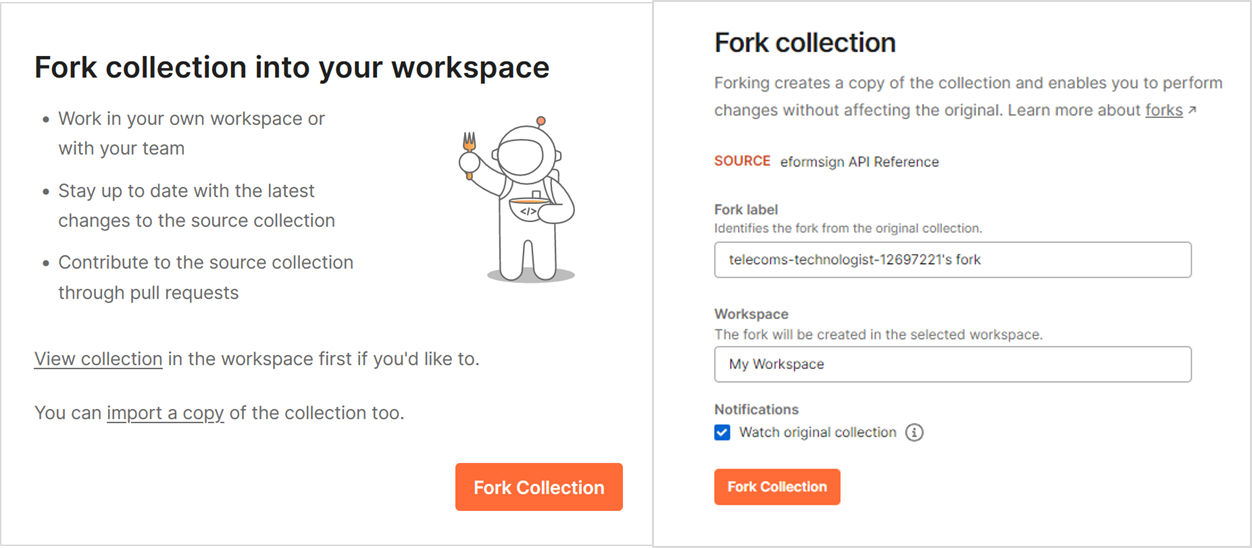
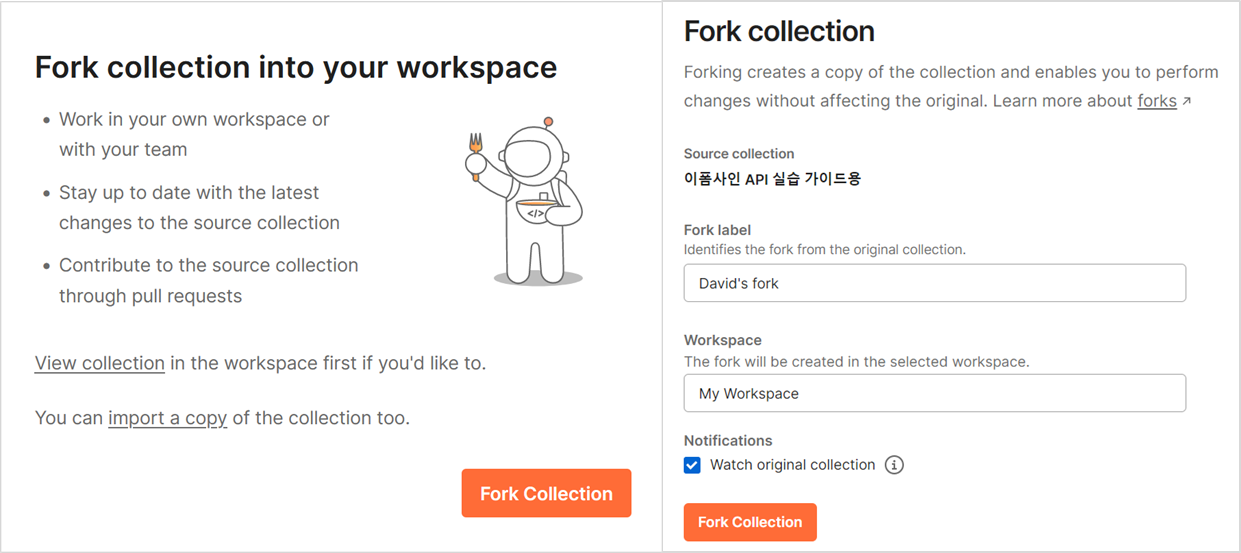
이미지 추가 수정

diff --git a/docs/help/eformsign_webhook.html b/docs/help/eformsign_webhook.html
@@ -120,18 +120,14 @@
 <section id="addwebhook">
 <span id="id2"></span><h3>Webhook 추가하기<a class="headerlink" href="#addwebhook" title="Link to this heading"></a></h3>
 <ol class="arabic simple">
-<li><p>eformsign에 대표 관리자로 로그인 후, 메뉴에서 <strong>[커넥트] &gt; [API / Webhook]</strong> 페이지로 이동합니다.</p></li>
+<li><p>메뉴에서 <strong>[커넥트] &gt; [API / Webhook]</strong> 클릭하여 이동한 후, <strong>[Webhook 관리]</strong> 탭을 선택하고 <strong>Webhook 추가</strong> 버튼을 클릭합니다.</p></li>
 </ol>
 <a class="reference internal image-reference" href="../_images/apikey1.PNG"><img alt="커넥트 &gt; API/Webhook 메뉴 위치" src="../_images/apikey1.PNG" style="width: 700px;" /></a>
 <ol class="arabic simple" start="2">
-<li><p><strong>[Webhook 관리]</strong> 탭을 선택하고 <strong>Webhook 추가</strong> 버튼을 클릭합니다.</p></li>
-</ol>
-<a class="reference internal image-reference" href="../_images/webhook2.PNG"><img alt="Webhook 추가 버튼" src="../_images/webhook2.PNG" style="width: 700px;" /></a>
-<ol class="arabic simple" start="3">
-<li><p><strong>Webhook 추가</strong> 팝업창에 이름, Webhook을 수신할 URL(Endpoint URL), 활성 상태를 선택합니다.</p></li>
+<li><p>Webhook 추가 팝업창에 이름, Webhook을 수신할 URL(Endpoint URL), 활성 상태를 선택합니다.</p></li>
 </ol>
 <a class="reference internal image-reference" href="../_images/Webhook_key1.png"><img alt="Webhook 키 생성 팝업창" src="../_images/Webhook_key1.png" style="width: 500px;" /></a>
-<ol class="arabic simple" start="4">
+<ol class="arabic simple" start="3">
 <li><p><strong>적용 대상</strong>을 선택합니다. 적용 대상은 <strong>모든 문서, 템플릿이 없이 만든 문서, 템플릿으로 만든 문서</strong> 중에 선택할 수 있습니다.</p></li>
 </ol>
 <a class="reference internal image-reference" href="../_images/Webhook_key2.png"><img alt="Webhook 키 생성 팝업창 2" src="../_images/Webhook_key2.png" style="width: 500px;" /></a>
@@ -156,11 +152,11 @@
 <div><a class="reference internal image-reference" href="../_images/Webhook_add_popup2.png"><img alt="Webhook 키 생성 팝업창 5" src="../_images/Webhook_add_popup2.png" style="width: 500px;" /></a>
 </div></blockquote>
 </div>
-<ol class="arabic simple" start="5">
+<ol class="arabic simple" start="4">
 <li><p><strong>검증 유형</strong>을 선택합니다. 검증 유형은 <strong>검증 없음, Bearer token, Basic authentication, eformsign signature</strong> 중에서 선택할 수 있습니다. 각 검증 유형에 대한 설명은 <a class="reference external" href="#webhookauth">Webhook 검증하기</a>을 확인해 주세요.</p></li>
 </ol>
 <a class="reference internal image-reference" href="../_images/Webhook_add_popup3.png"><img alt="Webhook 키 생성 팝업창 6" src="../_images/Webhook_add_popup3.png" style="width: 500px;" /></a>
-<ol class="arabic simple" start="6">
+<ol class="arabic simple" start="5">
 <li><p><strong>등록</strong> 버튼을 클릭하면 Webhook이 추가됩니다. <strong>Webhook 관리</strong> 목록에서 추가한 Webhook을 확인할 수 있습니다.</p></li>
 </ol>
 <a class="reference internal image-reference" href="../_images/Webhook_add.png"><img alt="Webhook 등록 완료" src="../_images/Webhook_add.png" style="width: 700px;" /></a>

diff --git a/docs/help/eformsign_embedding_v2.html b/docs/help/eformsign_embedding_v2.html
@@ -153,7 +153,7 @@
 <li><p>템플릿 수정</p></li>
 <li><p>템플릿 복제</p></li>
 </ul>
-<p>위 기능을 임베딩하기 위한 객체는 현재 EformSignDocument와 EformSignTemplate 두 종류를 제공하고 있습니다. 각 객체가 담당하고 있는 기능을 확인 후 설치해 주세요.</p>
+<p>위의 기능을 임베딩하기 위한 객체는 현재 EformSignDocument와 EformSignTemplate 두 종류를 제공하고 있습니다. 각 객체가 담당하고 있는 기능을 확인 후 설치해 주세요.</p>
 <section id="id3">
 <h4>eformsign 임베딩용 객체<a class="headerlink" href="#id3" title="Link to this heading"></a></h4>
 <table class="docutils align-default">
@@ -273,14 +273,10 @@ jQuery의 경우, 이미 다른 방식으로 웹페이지에 추가되어 있다
 <h4>템플릿 ID 확인 방법<a class="headerlink" href="#id8" title="Link to this heading"></a></h4>
 <p>템플릿 관리 메뉴로 이동하여 사용하려는 템플릿의 설정 아이콘을 클릭하면 해당 템플릿의 URL에서 form_id를 확인할 수 있습니다.</p>
 <ol class="arabic simple">
-<li><p>eformsign 사이드바 메뉴에서 <strong>템플릿 관리</strong>를 클릭합니다.</p></li>
+<li><p>사이드바 메뉴에서 <strong>템플릿 관리</strong>를 클릭한 후 <strong>템플릿 관리</strong> 화면에서 해당 템플릿의 <strong>설정</strong> 버튼을 클릭합니다.</p></li>
 </ol>
 <a class="reference internal image-reference" href="../_images/sidemenu_managetemplate.png"><img alt="eformsign 메뉴-템플릿 관리" src="../_images/sidemenu_managetemplate.png" style="width: 700px;" /></a>
 <ol class="arabic simple" start="2">
-<li><p>eformsign 템플릿 관리 화면에서 해당 템플릿의 <strong>설정</strong> 버튼을 클릭합니다.</p></li>
-</ol>
-<a class="reference internal image-reference" href="../_images/managetemplate.png"><img alt="eformsign 템플릿 관리 화면" src="../_images/managetemplate.png" style="width: 700px;" /></a>
-<ol class="arabic simple" start="3">
 <li><p>템플릿의 URL에서 <strong>템플릿 ID(=form_id)</strong>를 확인합니다.</p></li>
 </ol>
 <a class="reference internal image-reference" href="../_images/templateURL_templateID.png"><img alt="템플릿 ID 위치" src="../_images/templateURL_templateID.png" style="width: 700px;" /></a>
@@ -289,7 +285,7 @@ jQuery의 경우, 이미 다른 방식으로 웹페이지에 추가되어 있다
 <h4>문서 ID 확인 방법<a class="headerlink" href="#id9" title="Link to this heading"></a></h4>
 <p>문서 ID는 해당 문서가 있는 문서함 목록에서 확인할 수 있습니다.</p>
 <ol class="arabic simple">
-<li><p>eformsign 사이드바 메뉴에서 <strong>해당 문서가 있는 문서함</strong> 메뉴를 클릭합니다.</p></li>
+<li><p>사이드바 메뉴에서 <strong>해당 문서가 있는 문서함</strong> 메뉴를 클릭합니다.</p></li>
 </ol>
 <a class="reference internal image-reference" href="../_images/sidemenu_documentinbox.png"><img alt="eformsign 메뉴-템플릿 관리" src="../_images/sidemenu_documentinbox.png" style="width: 700px;" /></a>
 <ol class="arabic simple" start="2">

diff --git a/docs/help/eformsign_api_quickstart.html b/docs/help/eformsign_api_quickstart.html
@@ -116,7 +116,7 @@
 <li><p>대표관리자 계정으로 이폼사인에 로그인합니다.</p></li>
 <li><p>메뉴에서 <strong>템플릿 관리</strong>를 클릭하여 이동합니다.</p></li>
 <li><p>새로운 템플릿을 만들기 위해 <strong>새 템플릿 만들기</strong>를 클릭합니다.</p></li>
-<li><p><strong>문서 참여자</strong> 설정 팝업에서 <strong>문서 작성에 참여할 사람</strong>을 설정합니다. 이 가이드에서는 최초 작성자인 <strong>시작</strong>과 수신자인 <strong>회원</strong>을 설정하겠습니다.</p></li>
+<li><p><strong>서 참여자</strong> 설정 팝업에서 <strong>문서 작성에 참여할 사람</strong>을 설정합니다. 이 가이드에서는 최초 작성자인 <strong>시작</strong>과 수신자인 <strong>회원</strong>을 설정하겠습니다.</p></li>
 </ol>
 <a class="reference internal image-reference" href="../_images/participants_kr.PNG"><img alt="문서 참여자 팝업" src="../_images/participants_kr.PNG" style="width: 300px;" /></a>
 <ol class="arabic simple" start="5">
@@ -135,18 +135,10 @@
 <section id="id4">
 <h3>준비사항 2. API 키 생성하기<a class="headerlink" href="#id4" title="Link to this heading"></a></h3>
 <p>템플릿을 다 만들었으면 이제 API 키를 생성할 차례입니다.</p>
-<p>1. 이폼사인에서 <strong>[커넥트 &gt; API/Webhook &gt; API 키 관리]</strong> 페이지로 이동한 후 화면 우측의 <strong>API 키 생성</strong>을 클릭합니다.
-.. image:: resources/api_webhook_menu_kr.PNG</p>
-<blockquote>
-<div><dl class="field-list simple">
-<dt class="field-odd">width<span class="colon">:</span></dt>
-<dd class="field-odd"><p>700</p>
-</dd>
-<dt class="field-even">alt<span class="colon">:</span></dt>
-<dd class="field-even"><p>API/Webhook 메뉴</p>
-</dd>
-</dl>
-</div></blockquote>
+<ol class="arabic simple">
+<li><p>이폼사인에서 <strong>[커넥트 &gt; API/Webhook &gt; API 키 관리]</strong> 페이지로 이동한 후 화면 우측의 <strong>API 키 생성</strong>을 클릭합니다.</p></li>
+</ol>
+<a class="reference internal image-reference" href="../_images/api_webhook_menu_kr.PNG"><img alt="API/Webhook 메뉴" src="../_images/api_webhook_menu_kr.PNG" style="width: 700px;" /></a>
 <ol class="arabic simple" start="2">
 <li><p><strong>API 키 생성</strong> 팝업이 나타나면 <strong>별칭</strong> 및 <strong>애플리케이션 이름</strong>을 입력하고 <strong>검증 유형</strong>을 <strong>Bearer token</strong>으로 선택한 후 <strong>값</strong>을 입력하고 <strong>저장</strong>합니다.</p></li>
 </ol>

diff --git a/docs/help/eformsign_api.html b/docs/help/eformsign_api.html
@@ -161,18 +161,14 @@
 <p>API 키는 대표 관리자만 발급할 수 있습니다. 대표 관리자가 아닌 경우, API 키 필요 시 대표 관리자에게 요청하시기 바랍니다.</p>
 </div>
 <ol class="arabic simple">
-<li><p>eformsign에 대표 관리자로 로그인 후, 메뉴 트리에서 <strong>[커넥트] &gt; [API / Webhook]</strong> 페이지로 이동합니다.</p></li>
+<li><p>메뉴에서 <strong>[커넥트] &gt; [API / Webhook]</strong> 클릭하여 이동한 후 <strong>API 키 생성</strong> 버튼을 클릭합니다.</p></li>
 </ol>
-<a class="reference internal image-reference" href="../_images/apikey1.PNG"><img alt="커넥트 &gt; API/Webhook 메뉴 위치" src="../_images/apikey1.PNG" style="width: 700px;" /></a>
+<a class="reference internal image-reference" href="../_images/apikey-menu.PNG"><img alt="커넥트 &gt; API/Webhook 메뉴 위치" src="../_images/apikey-menu.PNG" style="width: 700px;" /></a>
 <ol class="arabic simple" start="2">
-<li><p><strong>[API 키 관리]</strong> 탭을 선택하고 <strong>API 키 생성</strong> 버튼을 클릭합니다.</p></li>
-</ol>
-<a class="reference internal image-reference" href="../_images/apikey2.PNG"><img alt="API 키 생성 버튼" src="../_images/apikey2.PNG" style="width: 700px;" /></a>
-<ol class="arabic simple" start="3">
 <li><p><strong>API 키 생성</strong> 팝업창에 <strong>별칭</strong>과 <strong>애플리케이션 이름</strong>을 입력합니다.</p></li>
 </ol>
 <a class="reference internal image-reference" href="../_images/apikeyauth.PNG"><img alt="API 키 생성 팝업창" src="../_images/apikeyauth.PNG" style="width: 400px;" /></a>
-<ol class="arabic simple" start="4">
+<ol class="arabic simple" start="3">
 <li><p><strong>검증 유형</strong>을 선택 후 저장합니다.</p></li>
 </ol>
 <div class="admonition note">

diff --git a/help/eformsign_api.rst b/help/eformsign_api.rst
@@ -47,30 +47,23 @@ API 키 발급 및 비밀키 확인하기
 
 .. note:: 
 
-    API 키는 대표 관리자만 발급할 수 있습니다. 대표 관리자가 아닌 경우, API 키 필요 시 대표 관리자에게 요청하시기 바랍니.
+    API 키는 대표 관리자만 발급할 수 있습니다. 대표 관리자가 아닌 경우, API 키 필요 시 대표 관리자에게 요청하시기 바랍니다.
 
 
-1. eformsign에 대표 관리자로 로그인 후, 메뉴 트리에서 **[커넥트] > [API / Webhook]** 페이지로 이동합니다. 
+1. 메뉴에서 **[커넥트] > [API / Webhook]** 클릭하여 이동한 후 **[API 키 관리]** 탭을 선택하고 **API 키 생성** 버튼을 클릭합니다.
 
-.. image:: resources/apikey1.PNG
+.. image:: resources/apikey-menu.PNG
     :width: 700
     :alt: 커넥트 > API/Webhook 메뉴 위치
 
 
-2. **[API 키 관리]** 탭을 선택하고 **API 키 생성** 버튼을 클릭합니다.
-
-.. image:: resources/apikey2.PNG
-    :width: 700
-    :alt: API 키 생성 버튼
-
-
-3. **API 키 생성** 팝업창에 **별칭**\ 과 **애플리케이션 이름**\ 을 입력합니다.
+2. **API 키 생성** 팝업창에 **별칭**\ 과 **애플리케이션 이름**\ 을 입력합니다.
 
 .. image:: resources/apikeyauth.PNG
     :width: 400
     :alt: API 키 생성 팝업창
 
-4. **검증 유형**\ 을 선택 후 저장합니다.
+3. **검증 유형**\ 을 선택 후 저장합니다.
 
 .. note:: 
     
@@ -571,40 +564,73 @@ Access Token API에 대한 자세한 설명은
 
 ``POST``: `새 문서 작성_최초 작성자가 회사 멤버 <https://app.swaggerhub.com/apis-docs/eformsign_api/eformsign_API_2.0/2.0#/document/post-api-documents>`_\ 
 
+회사 멤버가 템플릿으로 문서를 한 건 작성합니다. 
+
 ``POST``: `새 문서 작성_최초 작성자가 외부 수신자 <https://app.swaggerhub.com/apis-docs/eformsign_api/eformsign_API_2.0/2.0#/document/post-api-documents-external>`_\ 
 
-
+회사 멤버가 아닌 사용자가 문서를 한 건 작성합니다. **템플릿 설정>워크플로우 설정**\ 의 시작 단계 속성에서 **URL로 문서 작성 허용**\ 이 체크되어 있는 템플릿만 사용할 수 있습니다.
 
 ``GET``: `문서 정보 조회 <https://app.swaggerhub.com/apis-docs/eformsign_api/eformsign_API_2.0/2.0#/document/get-api-documents-DOCUMENT_ID>`_\
 
+특정 문서의 일반 정보, 상세 정보, 이력, 진행 상황 등을 조회합니다.
+
 ``GET``: `문서 파일 다운로드_문서 PDF 및 감사추적증명서 <https://app.swaggerhub.com/apis-docs/eformsign_api/eformsign_API_2.0/2.0#/document/get-api-documents-DOCUMENT_ID-download_files>`_\
+
+문서 파일 및 감사추적증명서 파일을 PDF 형태로 다운로드합니다.
 
 ``GET``: `문서 첨부 파일 다운로드 <https://app.swaggerhub.com/apis-docs/eformsign_api/eformsign_API_2.0/2.0#/document/get-api-documents-DOCUMENT_ID-download_attach_files>`_\ 
 
+문서에 첨부된 파일을 다운로드합니다.
+
 ``GET``: `문서 목록 조회 <https://app.swaggerhub.com/apis-docs/eformsign_api/eformsign_API_2.0/2.0#/document/get-api-documents>`_\ 
+
+문서함의 문서 목록을 조회하고, 각 문서의 일반 정보, 상세 정보, 이력, 진행상황 등을 확인할 수 있는 API입니다.
 
 ``POST``: `문서 목록 조회 <https://app.swaggerhub.com/apis-docs/eformsign_api/eformsign_API_2.0/2.0#/document/post-api-list-documents>`_\ 
 
+문서함의 문서 목록을 조회하고, 각 문서의 일반 정보, 상세 정보, 이력, 진행상황 등을 확인할 수 있는 API입니다.
+
 ``DELETE``: `문서 삭제 <https://app.swaggerhub.com/apis-docs/eformsign_api/eformsign_API_2.0/2.0#/document/delete-api-documents>`_\ 
+
+문서를 삭제하는 API입니다.
 
 ``DELETE``: `문서 취소 <https://app.swaggerhub.com/apis-docs/eformsign_api/eformsign_API_2.0/2.0#/document/post-api-documents-cancel>`_\ 
 
+문서를 취소하는 API입니다.
+
 ``POST``: `외부 수신자 문서 재요청 <https://app.swaggerhub.com/apis-docs/eformsign_api/eformsign_API_2.0/2.0#/document/post-api-documents-document_id-re_request_outsider>`_\ 
+
+외부 수신자에게 요청한 문서를 다시 요청하는 API입니다.
 
 
 ``POST``: `문서 일괄 작성 <https://app.swaggerhub.com/apis-docs/eformsign_api/eformsign_API_2.0/2.0#/document/post-api-forms-mass_documents%3Ftemplate_id%3D-form_id>`_\  
 
+회사 멤버 계정을 통해 한 템플릿으로 문서를 여러 건 일괄 작성합니다.
+
 ``POST``: `문서 일괄 작성_멀티 템플릿 <https://app.swaggerhub.com/apis-docs/eformsign_api/eformsign_API_2.0/2.0#/document/post-api-forms%2Fmass_multi_documents>`_\  
+
+멤버 계정을 통 여러 템플릿으로 문서를 일괄작성하는 API입니다.
 
 ``POST``: `이용현황 조회 <https://app.swaggerhub.com/apis-docs/eformsign_api/eformsign_API_2.0/2.0#/document/get-api-companies-COMPANY_ID-use_status>`_\  
 
+기간(연/월)별 이용현황을 조회하는 API입니다.
+
 ``POST``: `내부자 반려 <https://app.swaggerhub.com/apis-docs/eformsign_api/eformsign_API_2.0/2.0#/document/post-api-document-DOCUMENT_ID-decline>`_\  
+
+문서 반려 시, 이전 상태로 되돌리는 API입니다.
 
 ``POST``: `외부자 반려 <https://app.swaggerhub.com/apis-docs/eformsign_api/eformsign_API_2.0/2.0#/document/post-api-document-DOCUMENT_ID-external_decline>`_\  
 
+문서 반려 시, 이전 상태로 되돌리는 API입니다.
+
+
 ``GET``: `작성가능한 템플릿 목록 조회 <https://app.swaggerhub.com/apis-docs/eformsign_api/eformsign_API_2.0/2.0#/document/get-api-forms>`_\  
 
+해당 멤버가 회사에서 작성 가능한 템플릿의 목록을 조회합니다.
+
 ``DELETE``: `템플릿 삭제 <https://app.swaggerhub.com/apis-docs/eformsign_api/eformsign_API_2.0/2.0#/document/delete-forms>`_\  
+
+템플릿을 삭제하는 API입니다.
 
 
 -----------------
@@ -635,9 +661,15 @@ API를 사용해 멤버 및 그룹을 관리할 수 있습니다. 멤버 및 그
 
 ``GET``: `멤버 목록 조회 <https://app.swaggerhub.com/apis-docs/eformsign_api/eformsign_API_2.0/2.0#/members/get-api-members>`_\   
 
+회사에 소속된 멤버 목록을 조회합니다. 삭제된 멤버를 제외한 활성, 비활성, 탈퇴 멤버의 정보를 포함한 목록을 조회할 수 있습니다.
+
 ``PATCH``: `멤버 수정 <https://app.swaggerhub.com/apis-docs/eformsign_api/eformsign_API_2.0/2.0#/members/patch-api-members-member_id>`_\  
 
+회사의 멤버 정보를 수정합니다.
+
 ``DELETE``: `멤버 삭제 <https://app.swaggerhub.com/apis-docs/eformsign_api/eformsign_API_2.0/2.0#/members/delete-api-members-member_id>`_\  
+
+회사에서 멤버를 삭제합니다. 해당 멤버의 eformsign 계정은 삭제되지 않고, 회사에서만 탈퇴됩니다.
 
 
 그룹 관리 API
@@ -646,12 +678,19 @@ API를 사용해 멤버 및 그룹을 관리할 수 있습니다. 멤버 및 그
 
 ``GET``: `그룹 목록 조회 <https://app.swaggerhub.com/apis-docs/eformsign_api/eformsign_API_2.0/2.0#/groups/get-api-groups>`_\  
 
+회사의 그룹 목록을 조회합니다.
+
 ``POST``: `그룹 추가 <https://app.swaggerhub.com/apis-docs/eformsign_api/eformsign_API_2.0/2.0#/groups/post-api-groups>`_\  
+
+회사에 새로운 그룹을 추가합니다.
 
 ``PATCH``: `그룹 수정 <https://app.swaggerhub.com/apis-docs/eformsign_api/eformsign_API_2.0/2.0#/groups/patch-api-groups>`_\  
 
+회사의 그룹 정보를 수정합니다.
+
 ``DELETE``: `그룹 삭제 <https://app.swaggerhub.com/apis-docs/eformsign_api/eformsign_API_2.0/2.0#/groups/delete-api-groups>`_\  
 
+회사의 그룹을 삭제합니다.
 
 
 .. note:: 

diff --git a/help/eformsign_api_quickstart.rst b/help/eformsign_api_quickstart.rst
@@ -39,22 +39,13 @@ eformsign API 시작하기: 실습 가이드
 
 
 1. 대표관리자 계정으로 이폼사인에 로그인합니다.
-2. 메뉴에서 템플릿 관리를 클릭하여 템플릿 관리 페이지로 이동합니다.
-3. 새로운 템플릿을 만들기 위해 템플릿으로 만들 파일을 업로드합니다. 
-
-
-.. image:: resources/select_template_kr.PNG
-    :width: 700
-    :alt: 템플릿 관리 메뉴
-
-
-
-4. **문서 참여자** 설정 팝업에서 **문서 작성에 참여할 사람**\ 을 설정합니다. 이 가이드에서는 최초 작성자인 **시작**\ 과 수신자인 **회원**\ 을 설정하겠습니다. 
+2. 메뉴에서 **템플릿 관리**\ 를 클릭하여 이동합니다.
+3. 새로운 템플릿을 만들기 위해 **새 템플릿 만들기**\ 를 클릭합니다. 
+4. **서 참여자** 설정 팝업에서 **문서 작성에 참여할 사람**\ 을 설정합니다. 이 가이드에서는 최초 작성자인 **시작**\ 과 수신자인 **회원**\ 을 설정하겠습니다. 
 
 .. image:: resources/participants_kr.PNG
     :width: 300
     :alt: 문서 참여자 팝업
-
 
 
 5. **시작**\ 과 **회원**\ 이 작성할 입력항목을 문서에 추가하고 입력항목 ID 입력, 참여자별 입력항목의 작성권한을 설정합니다. 
@@ -92,7 +83,8 @@ eformsign API 시작하기: 실습 가이드
 템플릿을 다 만들었으면 이제 API 키를 생성할 차례입니다.
 
 
-1. 이폼사인에 로그인한 후 **[커넥트 > API/Webhook > API 키 관리]** 페이지로 이동합니다.
+1. 이폼사인에서 **[커넥트 > API/Webhook > API 키 관리]** 페이지로 이동한 후 화면 우측의 **API 키 생성**\ 을 클릭합니다.
+
 
 .. image:: resources/api_webhook_menu_kr.PNG
     :width: 700
@@ -100,15 +92,7 @@ eformsign API 시작하기: 실습 가이드
 
 
 
-2. 화면 우측의 **API 키 생성** 버튼을 클릭합니다.
-
-.. image:: resources/api_webhook_page_kr.PNG
-    :width: 700
-    :alt: API 키 생성 바튼
-
-
-
-3. **API 키 생성** 팝업이 나타나면 **별칭** 및 **애플리케이션 이름**\ 을 입력하고 **검증 유형**\ 을 **Bearer token**\ 으로 선택한 후 **값**\ 을 입력하고 **저장**\ 합니다. 
+2. **API 키 생성** 팝업이 나타나면 **별칭** 및 **애플리케이션 이름**\ 을 입력하고 **검증 유형**\ 을 **Bearer token**\ 으로 선택한 후 **값**\ 을 입력하고 **저장**\ 합니다. 
 
 .. note:: 
     
@@ -124,7 +108,7 @@ eformsign API 시작하기: 실습 가이드
    검증 유형에 대한 자세한 내용은 eformsign API 사용하기 가이드의 `API 키 발급 및 비밀키 확인하기 <https://eformsignkr.github.io/developers/help/eformsign_api.html#api>`_ 를 참고해 주세요.
 
     
-4. 생성된 API 키를 확인하고 복사합니다. API 키는 Access 토큰을 발급할 때 필요합니다.
+3. 생성된 API 키를 확인하고 복사합니다. API 키는 Access 토큰을 발급할 때 필요합니다.
 
 .. image:: resources/api_key_kr.PNG
     :width: 700
@@ -137,8 +121,7 @@ eformsign API 시작하기: 실습 가이드
 
 API 키를 생성한 후에는 인증을 거쳐 Access 토큰을 발급받아야 합니다. 이번 가이드에서는 API 테스트 툴인 Postman을 사용하여 API 키 인증 후 Access 토큰을 발급해 보겠습니다.
 
-1. Access 토큰 발급과 문서 작성 및 전송을 더 쉽고 빠르게 테스트 해볼 수 있도록 미리 **이폼사인 API 실습 가이드용** 를 만들어 놓았습니다. 아래 Run in Postman 버튼을 클릭해 주세요.
-**이폼사인 API 실습 가이드용** Postman collection은 실습가이드를 따라 하는데 필요한 API만 포함하고 있습니다. 현재 제공 중인 모든 API는 `Swagger eformsign API 가이드 <https://app.swaggerhub.com/apis-docs/eformsign_api/eformsign_API_2.0/2.0#/document/post-api-documents>`_ 에서 확인할 수 있습니다.
+1. Access 토큰 발급과 문서 작성 및 전송을 더 쉽고 빠르게 테스트 해볼 수 있도록 미리 이폼사인 API reference collection를 만들어 놓았습니다. 아래 Run in Postman 버튼을 클릭해 주세요. 
 
 .. image:: resources/run_in_postman.PNG
     :alt: Run in Postman 버튼
@@ -149,14 +132,14 @@ API 키를 생성한 후에는 인증을 거쳐 Access 토큰을 발급받아야
 
 2. 위 버튼을 클릭하면 로그인 창이 뜹니다. 미리 가입한 계정으로 로그인해 주세요.
 
-3. 로그인 후 다음과 같은 화면이 표시되면 **Fork Collection**\ 을 클릭합니다. 미리 만들어 놓은 이폼사인 API 실습 가이드용을 사용자의 workspace로 fork합니다.
+3. 로그인 후 다음과 같은 화면이 표시되면 **Fork Collection**\ 을 클릭합니다. 미리 만들어 놓은 이폼사인 API reference collection을 사용자의 workspace로 fork합니다.
 
 .. image:: resources/fork_collection.PNG
     :width: 700
     :alt: Fork collection
 
 
-4. 이폼사인 API 실습 가이드용을 workspace로 fork하면 다음과 같은 화면을 확인할 수 있습니다.
+4. 이폼사인 API reference collection을 workspace로 fork하면 다음과 같은 화면을 확인할 수 있습니다.
 
 .. image:: resources/postman_collection.PNG
     :width: 700
@@ -178,7 +161,7 @@ API 키를 생성한 후에는 인증을 거쳐 Access 토큰을 발급받아야
 
 .. tip:: 
     
-   base 64 인코더는 `온라인 Base 64 인코더 <https://www.convertstring.com/ko/EncodeDecode/Base64Encode>`_ 사이트에서 진행해 주세요.
+   base 64 인코딩은 `온라인 Base 64 인코더 <https://www.convertstring.com/ko/EncodeDecode/Base64Encode>`_ 사이트에서 진행해 주세요.
 
 
 7. **Body** 탭으로 이동한 후 **raw**\ 를 선택하고 execution_time 및 member_id 값을 입력한 다음 **Send** 버튼을 클릭하여 API를 호출합니다.
@@ -231,7 +214,7 @@ API를 사용하여 문서 작성 및 요청하기
 
 API 키가 인증되어 Access 토큰이 발급되었으므로 모든 준비가 끝났습니다. 이제 API를 사용하여 문서 작성 및 요청을 해보겠습니다. 
 
-1. 이폼사인 API 실습 가이드용의 document 폴더에서 POST 새 문서 작성 (최초 작성자가 회사 멤버)를 선택합니다. 
+1. eformsign API reference collection의 document 폴더에서 POST 새 문서 작성 (최초 작성자가 회사 멤버)를 선택합니다. 
 
 .. important:: 
     
